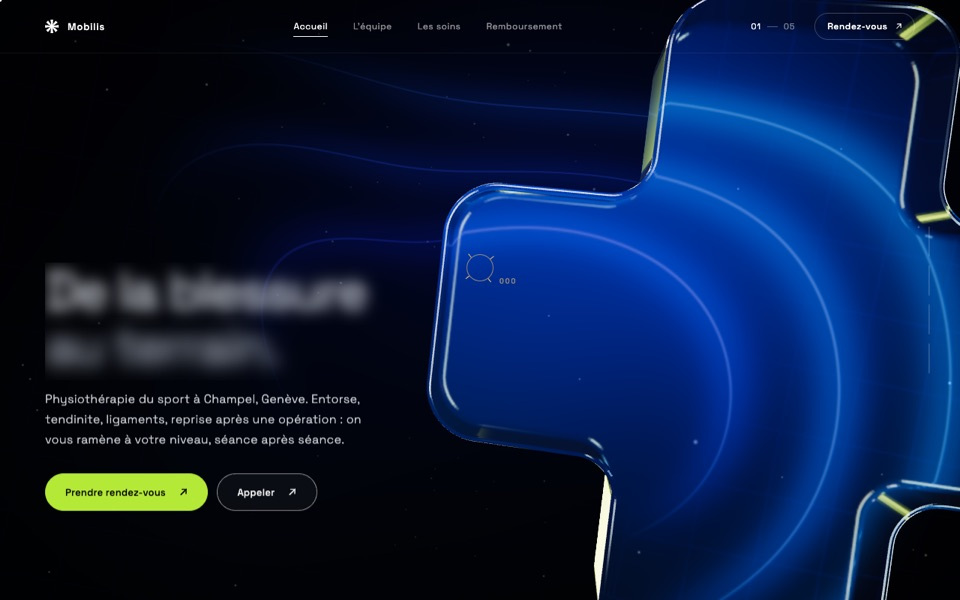
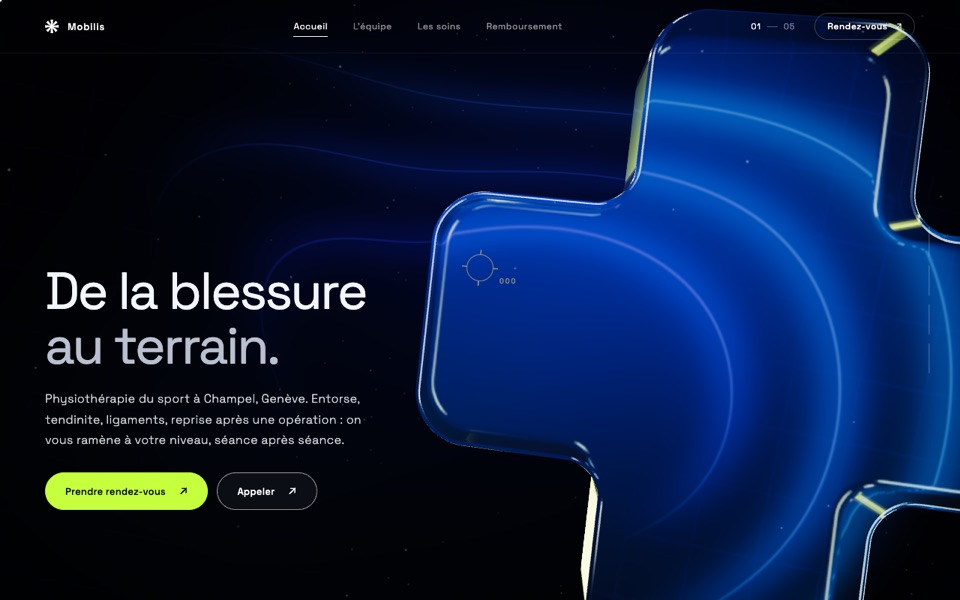
Met à jour la maquette physio-champel

diff --git a/physio-champel/index.html b/physio-champel/index.html
@@ -599,6 +599,9 @@ body.contact-open .main-header::before { opacity: 1; }
     .slide, .slide-desc, .benefits, .team { max-width: 100%; }
 }
 
+/* Mesure du texte pour le cadrage 3D : position finale, sans les décalages d'entrée. */
+.measuring-text .slide, .measuring-text .slide * { transition: none !important; transform: none !important; }
+
 </style>
 <script type="importmap">{"imports": {"three": "https://cdn.jsdelivr.net/npm/three@0.160.0/build/three.module.min.js", "three/examples/jsm/loaders/SVGLoader.js": "https://cdn.jsdelivr.net/npm/three@0.160.0/examples/jsm/loaders/SVGLoader.js"}}</script>
 <link rel="modulepreload" href="https://cdn.jsdelivr.net/npm/three@0.160.0/build/three.module.min.js" crossorigin>
@@ -1579,6 +1582,9 @@ function createGlassLogo() {
     wholeGeometry.translate(0, 0, -LOGO_DEPTH / 2);
     wholeBody = new THREE.Mesh(wholeGeometry, glass);
     wholeBody.position.copy(whole.home);
+    wholeGeometry.computeBoundingBox();
+    const extent = wholeGeometry.boundingBox.getSize(new THREE.Vector3());
+    objectRadius = Math.max(extent.x, extent.y) / 2 * 1.05;
     logo.add(wholeBody);
 
     // Final watertight prism: bevels grow and holes open once the fragments merge.
@@ -1704,36 +1710,105 @@ function smoothScrollRange(scroll, start, end) {
     return t * t * t * (t * (t * 6 - 15) + 10);
 }
 
-// Camera framing. Landscape: orbit close, object pushed sideways to clear the text
-// columns. Portrait (phones, tablets): orbit further out and stack vertically, the
-// object taking the lower half on slides 1 and 3 and the upper half on 2 and 4.
+// ---- Cadrage selon le texte (cabinet Mobilis) ----------------------------------
+// Chaque chapitre mesure où son texte est réellement dessiné, puis place l'objet dans le
+// plus grand espace libre restant (à droite, à gauche, au-dessus ou en dessous) et le
+// rapetisse si cet espace est petit : le verre ne passe jamais sur le texte, quelle que
+// soit la taille de la fenêtre. Mesuré au chargement et à chaque redimensionnement.
+const STACKED = window.matchMedia('(max-width: 900px), (max-aspect-ratio: 4/5)');
+let freeZones = [];
+let objectRadius = 1.65;   // demi-encombrement de la forme assemblée, recalculé à la création
+
+// Union des zones réellement dessinées : lignes de texte, boutons, icônes.
+function textRect(slide) {
+    if (!slide) return null;
+    const rects = [];
+    const range = document.createRange();
+    const walker = document.createTreeWalker(slide, NodeFilter.SHOW_TEXT);
+    for (let node = walker.nextNode(); node; node = walker.nextNode()) {
+        if (!node.textContent.trim()) continue;
+        range.selectNodeContents(node);
+        for (const r of range.getClientRects()) if (r.width && r.height) rects.push(r);
+    }
+    slide.querySelectorAll('.pill-btn, .benefit-icon').forEach(el => rects.push(el.getBoundingClientRect()));
+    if (!rects.length) return null;
+    return {
+        left: Math.min(...rects.map(r => r.left)), right: Math.max(...rects.map(r => r.right)),
+        top: Math.min(...rects.map(r => r.top)), bottom: Math.max(...rects.map(r => r.bottom))
+    };
+}
+
+function measureFreeZones() {
+    // Mesure à la position finale du texte, sans les décalages de ses animations d'entrée.
+    document.body.classList.add('measuring-text');
+    const W = window.innerWidth, H = window.innerHeight, top = 82, gap = 28, edge = 14;
+    freeZones = [1, 2, 3, 4].map(i => {
+        const r = textRect(document.getElementById(`slide-${i}`));
+        if (!r) return { cx: W / 2, cy: H / 2, size: Math.min(W, H) };
+        let best = null;
+        for (const [x0, y0, x1, y1] of [
+            [r.right + gap, top, W - edge, H - edge],   // à droite du texte
+            [edge, top, r.left - gap, H - edge],        // à gauche
+            [edge, top, W - edge, r.top - gap],         // au-dessus
+            [edge, r.bottom + gap, W - edge, H - edge]  // en dessous
+        ]) {
+            const size = Math.min(x1 - x0, y1 - y0);
+            if (size > 0 && (!best || size > best.size)) best = { cx: (x0 + x1) / 2, cy: (y0 + y1) / 2, size };
+        }
+        return best || { cx: W / 2, cy: H / 2, size: 1 };
+    });
+    document.body.classList.remove('measuring-text');
+}
+
+// Camera framing. The template's orbit and distances are kept as the design size; the
+// object's place on screen comes from the free zone of each chapter, and the camera only
+// moves further away (object smaller) when that zone is too small.
 function cameraFrame(scroll) {
     const aspect = sizes.width / sizes.height;
-    const portrait = THREE.MathUtils.clamp((1.0 - aspect) / 0.2, 0, 1);
+    const portrait = STACKED.matches ? 1 : THREE.MathUtils.clamp((1.0 - aspect) / 0.2, 0, 1);
     const separation = getLogoSeparation(scroll);
     const morph = smoothScrollRange(scroll, 0.40, 0.54);
     const landscapeRadius = 4.7 - Math.sin(scroll * Math.PI) * 0.6 + separation * 2.6 + morph * 0.9;
     const portraitRadius = 8.9 - Math.sin(scroll * Math.PI) * 0.4 + separation * 2.0 + morph * 0.4;
-    const radius = lerp(landscapeRadius, portraitRadius, portrait);
-    // Landscape: shift the object sideways so it never sits under a text block.
-    // One weight per chapter, negative pushes the object right (text on the left).
-    const ch1 = 1 - smoothScrollRange(scroll, 0.12, 0.24);
-    const ch2 = smoothScrollRange(scroll, 0.12, 0.24) - smoothScrollRange(scroll, 0.40, 0.50);
-    const ch3 = smoothScrollRange(scroll, 0.52, 0.62) - smoothScrollRange(scroll, 0.74, 0.86);
-    const ch4 = smoothScrollRange(scroll, 0.74, 0.86);
-    const x = (-1.5 * ch1 + 1.5 * ch2 - 1.8 * ch3 - 1.4 * ch4) * (1 - portrait);
-    // Portrait: +1 puts the object low on screen, -1 high; alternates per chapter.
-    const stack = 1 - 2 * smoothScrollRange(scroll, 0.16, 0.26)
-        + 2 * smoothScrollRange(scroll, 0.44, 0.54)
-        - 2 * smoothScrollRange(scroll, 0.72, 0.82);
-    const visibleHeight = 2 * radius * Math.tan(THREE.MathUtils.degToRad(camera.fov / 2));
-    // Object centre at 70 % of the height when low, 31 % when high (clear of the header).
-    const y = -0.15 + portrait * stack * (stack > 0 ? 0.20 : 0.19) * visibleHeight;
-    // Screen-right axis for this orbit position (camera looks at the origin).
+    let radius = lerp(landscapeRadius, portraitRadius, portrait);
+    // Chapter weights always sum to one, and each move happens where no text is shown
+    // (between the slide windows), so the object never travels across visible copy.
+    const a = smoothScrollRange(scroll, 0.14, 0.25);
+    const b = smoothScrollRange(scroll, 0.44, 0.53);
+    const c = smoothScrollRange(scroll, 0.72, 0.81);
+    const weights = [1 - a, a - b, b - c, c];
+    const tanHalf = Math.tan(THREE.MathUtils.degToRad(camera.fov / 2));
+    const reach = objectRadius * (1 + 0.8 * separation);   // the fragments fly ~1.15 units out
+    let cx = 0, cy = 0, needed = 0;
+    weights.forEach((w, i) => {
+        const zone = freeZones[i] || { cx: sizes.width / 2, cy: sizes.height / 2, size: Math.min(sizes.width, sizes.height) };
+        cx += w * zone.cx;
+        cy += w * zone.cy;
+        if (w > 0.001) needed = Math.max(needed, reach * sizes.height / (0.84 * Math.max(zone.size, 1)) / tanHalf);
+    });
+    radius = Math.max(radius, needed);
+    const halfH = radius * tanHalf, halfW = halfH * aspect;
+    const sx = cx / sizes.width * 2 - 1, sy = 1 - cy / sizes.height * 2;
     const phi = scroll * Math.PI * 2.0;
     const right = new THREE.Vector3(Math.cos(phi), 0, -Math.sin(phi));
-    const lookAt = new THREE.Vector3(0, y, 0).addScaledVector(right, x);
+    const lookAt = new THREE.Vector3(0, -0.3 - sy * halfH, 0).addScaledVector(right, -sx * halfW);
     return { radius, lookAt, portrait };
+}
+
+// QA : où l'objet est réellement dessiné à l'écran (boîte englobante projetée).
+function objectScreenRect() {
+    const box = new THREE.Box3();
+    modelPivot.updateMatrixWorld(true);
+    modelPivot.traverse(o => { if (o.isMesh && o.visible) box.expandByObject(o); });
+    if (box.isEmpty()) return null;
+    camera.updateMatrixWorld(true);
+    const xs = [], ys = [];
+    for (let i = 0; i < 8; i++) {
+        const p = new THREE.Vector3(i & 1 ? box.max.x : box.min.x, i & 2 ? box.max.y : box.min.y, i & 4 ? box.max.z : box.min.z).project(camera);
+        xs.push((p.x + 1) / 2 * sizes.width);
+        ys.push((1 - p.y) / 2 * sizes.height);
+    }
+    return { left: Math.min(...xs), right: Math.max(...xs), top: Math.min(...ys), bottom: Math.max(...ys) };
 }
 
 function getLogoSeparation(scroll) {
@@ -1936,7 +2011,7 @@ function updateCursorLabel() {
     const text = targetContact > 0.02 ? 'RDV' : String(Math.round(currentScroll * 100)).padStart(3, '0');
     if (text !== cursorLabelText) { label.textContent = text; cursorLabelText = text; }
 }
-window.addEventListener('resize', () => { onWindowResize(); headerState.chapter = -1; fitTitles(); });
+window.addEventListener('resize', () => { onWindowResize(); headerState.chapter = -1; fitTitles(); measureFreeZones(); });
 
 function splitTitlesIntoLines() {
     document.querySelectorAll('.slide-title').forEach(title => {
@@ -2244,6 +2319,9 @@ window.__glassSite = {
     },
     mailto() { const form = document.querySelector('#contact-form'); return form ? buildMailto(form) : null; },
     get scroll() { return currentScroll; },
+    get objectRect() { return objectScreenRect(); },
+    textRect(i) { return textRect(document.getElementById(`slide-${i}`)); },
+    get zones() { return freeZones; },
     get contact() { return currentContact; },
     get pieces() { return logoPieces.map(p => ({ name: p.name, points: p.correspondence.length })); }
 };
@@ -2304,6 +2382,7 @@ function init() {
     createGlassLogo();
     createGlassCard();
     onWindowResize();
+    measureFreeZones();
     // Compile the card's shader now rather than when the visitor reaches the form.
     if (glassCard) {
         glassCard.visible = true;
@@ -2316,7 +2395,7 @@ function init() {
     setupNavigation();
     setupContactForm();
     // First frame rendered, shaders compiled: release the preloader once fonts are in.
-    const release = () => { fitTitles(); if (window.__glassLoader) window.__glassLoader.done(); };
+    const release = () => { fitTitles(); measureFreeZones(); if (window.__glassLoader) window.__glassLoader.done(); };
     if (document.fonts && document.fonts.ready) document.fonts.ready.then(release, release); else release();
 }
 if (document.readyState === 'loading') {

diff --git a/index.html b/index.html
@@ -89,8 +89,8 @@ footer{border-top:1px solid var(--trait); padding:24px 0 40px; color:var(--gris)
   </header>
   <main>
     <ol>
-<li><a href="physio-champel/"><span class="vignette"><img src="physio-champel/capture.jpg" alt="" loading="lazy" width="960" height="600"></span><span class="nom">Mobilis — Physiothérapie du sport à Champel, Genève</span><span class="date">Mise à jour le <time datetime="2026-10-15">15 octobre 2026</time></span></a></li>
 <li><a href="pizzeria-onex/"><span class="vignette"><img src="pizzeria-onex/capture.jpg" alt="" loading="lazy" width="960" height="600"></span><span class="nom">Pizzeria della Mamma, Onex</span><span class="date">Mise à jour le <time datetime="2026-10-15">15 octobre 2026</time></span></a></li>
+<li><a href="physio-champel/"><span class="vignette"><img src="physio-champel/capture.jpg" alt="" loading="lazy" width="960" height="600"></span><span class="nom">Mobilis — Physiothérapie du sport à Champel, Genève</span><span class="date">Mise à jour le <time datetime="2026-10-15">15 octobre 2026</time></span></a></li>
     </ol>
   </main>
   <footer>© nave studio. Maquettes de travail, à ne pas diffuser.</footer>
